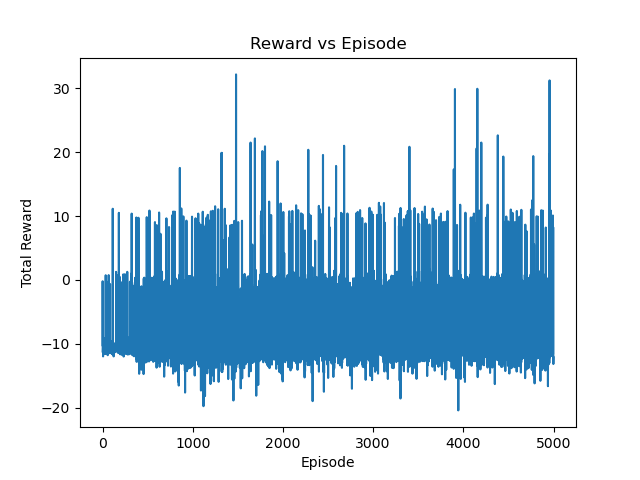
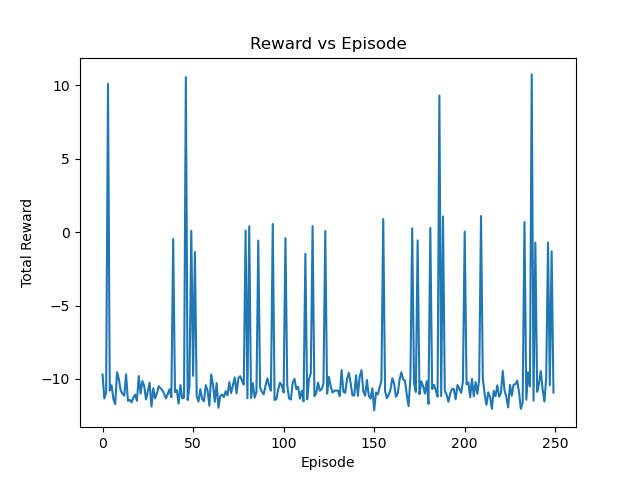
Implement CNN backbone for DQN agent

diff --git a/rl/dqn_model.py b/rl/dqn_model.py
@@ -1,45 +1,47 @@
-"""Deep Q-Network (DQN) architecture for the Snake RL agent."""
+"""CNN-based Deep Q-Network for the Snake RL agent."""
 
 import torch
 import torch.nn as nn
-import torch.nn.functional as F
 
 
 class DQN(nn.Module):
-    """Fully-connected DQN that maps a 15x15 grid observation to Q-values
+    """CNN that maps a (batch, 2, 15, 15) spatial observation to Q-values
     for each of the 4 movement actions (up, down, left, right).
-
-    Accepts input shaped as (batch, 15, 15) or (batch, 225); the network
-    flattens internally so callers don't need to reshape.
     """
 
-    def __init__(self, input_dim: int = 225, output_dim: int = 4) -> None:
+    def __init__(self, action_dim: int = 4) -> None:
         super().__init__()
-        self.fc1 = nn.Linear(input_dim, 256)
-        self.fc2 = nn.Linear(256, 128)
-        self.fc3 = nn.Linear(128, output_dim)
+
+        self.conv = nn.Sequential(
+            nn.Conv2d(in_channels=2, out_channels=32, kernel_size=3, stride=1, padding=1),
+            nn.ReLU(),
+            nn.Conv2d(32, 64, kernel_size=3, stride=1, padding=1),
+            nn.ReLU(),
+        )
+
+        with torch.no_grad():
+            dummy = torch.zeros(1, 2, 15, 15)
+            conv_out = self.conv(dummy)
+            self.flattened_size = conv_out.view(1, -1).size(1)
+
+        self.fc = nn.Sequential(
+            nn.Linear(self.flattened_size, 256),
+            nn.ReLU(),
+            nn.Linear(256, action_dim),
+        )
 
     def forward(self, x: torch.Tensor) -> torch.Tensor:
-        """Return Q-values for every action given an observation batch.
-
-        Args:
-            x: Observation tensor of shape (batch, 15, 15) or (batch, 225).
-
-        Returns:
-            Tensor of shape (batch, 4) containing raw Q-values.
-        """
-        if x.dim() > 2:
-            x = x.flatten(start_dim=1)
-
-        x = F.relu(self.fc1(x))
-        x = F.relu(self.fc2(x))
-        return self.fc3(x)
+        x = self.conv(x)
+        x = x.view(x.size(0), -1)
+        x = self.fc(x)
+        return x
 
 
 if __name__ == "__main__":
     model = DQN()
-    dummy_input = torch.randn(1, 15, 15)
+    dummy_input = torch.randn(1, 2, 15, 15)
     q_values = model(dummy_input)
     print(f"Input shape:  {dummy_input.shape}")
     print(f"Output shape: {q_values.shape}")
     print(f"Q-values:     {q_values.detach().numpy()}")
+    print(f"Flattened size: {model.flattened_size}")

diff --git a/rl/replay_buffer.py b/rl/replay_buffer.py
@@ -26,10 +26,10 @@ class ReplayBuffer:
         """Append a single transition to the buffer.
 
         Args:
-            state: numpy array of shape (29, 29).
+            state: numpy array of shape (2, grid_size, grid_size).
             action: int in [0, 3].
             reward: float reward signal.
-            next_state: numpy array of shape (29, 29).
+            next_state: numpy array of shape (2, grid_size, grid_size).
             done: bool indicating episode termination.
         """
         self.memory.append((state, action, reward, next_state, done))
@@ -42,10 +42,10 @@ class ReplayBuffer:
 
         Returns:
             Tuple of (states, actions, rewards, next_states, dones) as tensors.
-              - states:      float32, shape (batch_size, 29, 29)
+              - states:      float32, shape (batch_size, 2, grid_size, grid_size)
               - actions:     long,    shape (batch_size,)
               - rewards:     float32, shape (batch_size,)
-              - next_states: float32, shape (batch_size, 29, 29)
+              - next_states: float32, shape (batch_size, 2, grid_size, grid_size)
               - dones:       float32, shape (batch_size,)
         """
         batch = random.sample(self.memory, batch_size)
@@ -68,10 +68,10 @@ if __name__ == "__main__":
     buf = ReplayBuffer(capacity=100)
 
     for _ in range(10):
-        s = np.random.rand(29, 29).astype(np.float32)
+        s = np.random.rand(2, 15, 15).astype(np.float32)
         a = random.randint(0, 3)
         r = random.uniform(-1.0, 1.0)
-        s_next = np.random.rand(29, 29).astype(np.float32)
+        s_next = np.random.rand(2, 15, 15).astype(np.float32)
         d = random.choice([True, False])
         buf.push(s, a, r, s_next, d)
 

diff --git a/rl/agent.py b/rl/agent.py
@@ -17,7 +17,6 @@ class DQNAgent:
 
     def __init__(
         self,
-        state_dim=225,
         action_dim=4,
         lr=1e-3,
         gamma=0.99,
@@ -29,10 +28,16 @@ class DQNAgent:
         target_update_freq=1000,
     ):
         """Initialise networks, optimizer, replay buffer, and hyperparameters."""
-        self.device = torch.device("cuda" if torch.cuda.is_available() else "cpu")
+        if torch.backends.mps.is_available():
+            self.device = torch.device("mps")
+        elif torch.cuda.is_available():
+            self.device = torch.device("cuda")
+        else:
+            self.device = torch.device("cpu")
+        print(f"Using device: {self.device}")
 
-        self.policy_net = DQN(state_dim, action_dim).to(self.device)
-        self.target_net = DQN(state_dim, action_dim).to(self.device)
+        self.policy_net = DQN(action_dim).to(self.device)
+        self.target_net = DQN(action_dim).to(self.device)
         self.target_net.load_state_dict(self.policy_net.state_dict())
         self.target_net.eval()
 
@@ -78,6 +83,11 @@ class DQNAgent:
         rewards = rewards.to(self.device)
         next_states = next_states.to(self.device)
         dones = dones.to(self.device)
+
+        if not hasattr(self, '_shape_printed'):
+            print(f"[DEBUG train_step] states.shape={states.shape}, "
+                  f"next_states.shape={next_states.shape}")
+            self._shape_printed = True
 
         q_values = self.policy_net(states)
         current_q = q_values.gather(1, actions.unsqueeze(1)).squeeze(1)

diff --git a/snake_env.py b/snake_env.py
@@ -98,14 +98,35 @@ class SnakeEnv:
 
         return self.get_state(), reward, False
 
+    _state_printed = False
+
     def get_state(self):
-        """Return the board as a numpy array: 0=empty, 1=snake, 2=food."""
-        state = np.zeros((self.grid_size, self.grid_size), dtype=np.float32)
+        """Return a 3-channel spatial grid: channel 0 = snake, channel 1 = food."""
+        state = np.zeros((2, self.grid_size, self.grid_size), dtype=np.float32)
+
         for r, c in self.snake:
             if 0 <= r < self.grid_size and 0 <= c < self.grid_size:
-                state[r, c] = 1.0
+                state[0, r, c] = 1.0
+
         if self.food is not None:
-            state[self.food[0], self.food[1]] = 2.0
+            state[1, self.food[0], self.food[1]] = 1.0
+
+        assert state.shape == (2, self.grid_size, self.grid_size), (
+            f"State shape mismatch: {state.shape}"
+        )
+        assert state[1].sum() == 1.0, (
+            f"Food channel sum should be 1.0, got {state[1].sum()}"
+        )
+        assert state[0].sum() == len(self.snake), (
+            f"Snake channel sum should be {len(self.snake)}, got {state[0].sum()}"
+        )
+
+        if not SnakeEnv._state_printed:
+            print(f"[DEBUG get_state] shape={state.shape}, "
+                  f"snake_channel_sum={state[0].sum()}, "
+                  f"food_channel_sum={state[1].sum()}")
+            SnakeEnv._state_printed = True
+
         return state
 
 

diff --git a/rl/train.py b/rl/train.py
@@ -1,9 +1,12 @@
+import os
 import numpy as np
 import torch
 import matplotlib.pyplot as plt
 
 from snake_env import SnakeEnv
 from rl.agent import DQNAgent
+
+PLOT_DIR = os.path.join(os.path.dirname(os.path.dirname(os.path.abspath(__file__))), "plots")
 
 
 def train(
@@ -54,12 +57,14 @@ def train(
                 f"Epsilon: {agent.epsilon:.3f}"
             )
 
+    os.makedirs(PLOT_DIR, exist_ok=True)
+
     plt.figure()
     plt.plot(episode_rewards)
     plt.xlabel("Episode")
     plt.ylabel("Total Reward")
     plt.title("Reward vs Episode")
-    plt.savefig("reward_plot.png")
+    plt.savefig(os.path.join(PLOT_DIR, "reward_plot.png"))
     plt.close()
 
     plt.figure()
@@ -67,7 +72,7 @@ def train(
     plt.xlabel("Episode")
     plt.ylabel("Epsilon")
     plt.title("Epsilon Decay")
-    plt.savefig("epsilon_plot.png")
+    plt.savefig(os.path.join(PLOT_DIR, "epsilon_plot.png"))
     plt.close()
 
     moving_avg = np.convolve(episode_rewards, np.ones(50) / 50, mode='valid')
@@ -76,7 +81,7 @@ def train(
     plt.xlabel("Episode")
     plt.ylabel("Moving Avg Reward (50)")
     plt.title("Smoothed Reward Curve")
-    plt.savefig("reward_smoothed.png")
+    plt.savefig(os.path.join(PLOT_DIR, "reward_smoothed.png"))
     plt.close()
 
     if save_model:
@@ -85,4 +90,4 @@ def train(
 
 
 if __name__ == "__main__":
-    train(num_episodes=5000)
+    train(num_episodes=250)
